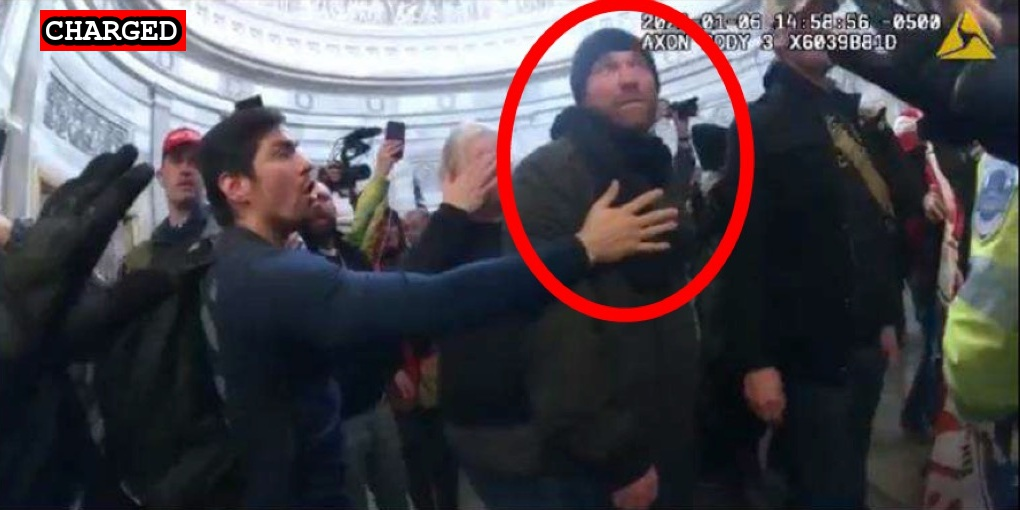
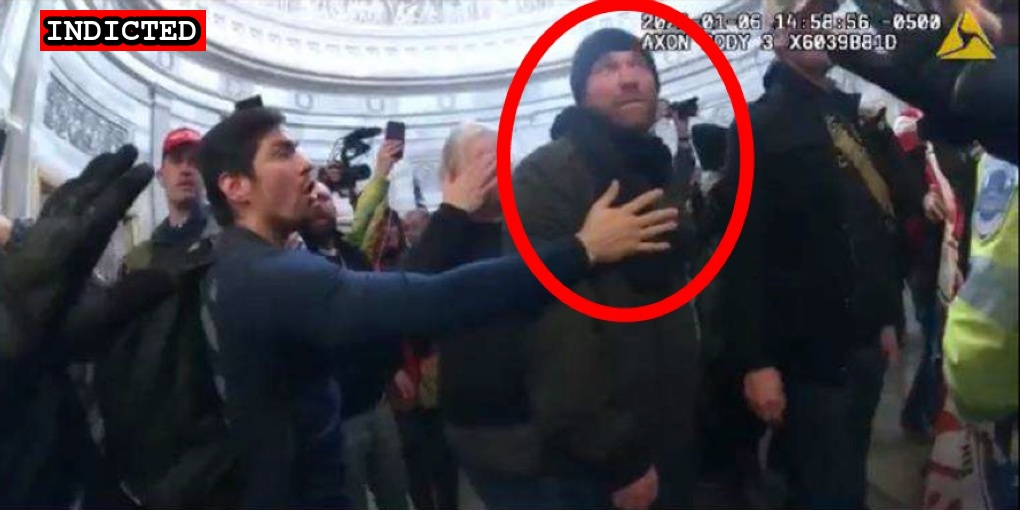
new indictments

Changed region(s): [[0.0304, 0.0, 0.2127, 0.1176]]

diff --git a/docs/_suspects/daniel-gray.md b/docs/_suspects/daniel-gray.md
@@ -3,13 +3,14 @@ name: Daniel Gray
 lastName: Gray
 aka:
 residence: Florida
-status: Charged
+status: Indicted
 date: 2021-05-17
 charged: 2021-05-17
-indicted:
-convicted: 
-sentenced: 
-dismissed: 
+indicted: 2021-07-28
+convicted:
+sentenced:
+dismissed:
+deceased:
 age: 41
 occupation:
 affiliations:
@@ -27,7 +28,9 @@ description: Click for latest case details. Suspects innocent until proven guilt
 author: seditiontrack
 layout: suspect
 published: true
-charges:
+caseNumber:
 ---
+
 - [News Report](https://www.news4jax.com/news/local/2021/05/19/neptune-beach-man-involved-in-altercation-that-led-to-officer-getting-hurt-during-jan-6-capitol-riot-court-documents-say/)
 - [Statement of Facts](https://www.justice.gov/usao-dc/press-release/file/1395251/download)
+- [Indictment](https://www.justice.gov/usao-dc/case-multi-defendant/file/1421286/download)

diff --git a/docs/_suspects/james-horning.md b/docs/_suspects/james-horning.md
@@ -3,13 +3,13 @@ name: James Horning
 lastName: Horning
 aka:
 residence: Ohio
-status: Charged
+status: Indicted
 date: 2021-03-01
 charged: 2021-03-01
-indicted:
-convicted: 
-sentenced: 
-dismissed: 
+indicted: 2021-04-02
+convicted:
+sentenced:
+dismissed:
 deceased:
 age: 44
 occupation:
@@ -30,5 +30,7 @@ layout: suspect
 published: true
 caseNumber: 1:21-cr-275
 ---
+
 - [News Report](https://sciotovalleyguardian.com/2021/01/10/fbi-tipped-to-local-man-who-was-involved-in-capitol-siege/)
 - [Statement of Facts](https://www.justice.gov/usao-dc/case-multi-defendant/file/1378696/download)
+- [Indictment](https://www.justice.gov/usao-dc/case-multi-defendant/file/1422221/download)

diff --git a/docs/_suspects/jeremy-grace.md b/docs/_suspects/jeremy-grace.md
@@ -10,6 +10,7 @@ indicted:
 convicted: 
 sentenced: 
 dismissed: 
+deceased:
 age:
 occupation:
 affiliations:
@@ -27,7 +28,8 @@ description: Click for latest case details. Suspects innocent until proven guilt
 author: seditiontrack
 layout: suspect
 published: true
-charges:
+caseNumber: 1:21-cr-492
 ---
 - [News Report](https://www.oregonlive.com/crime/2021/05/battle-ground-man-caught-on-video-with-dad-repeating-our-house-while-inside-us-capitol-during-jan-6-incursion-feds-say.html)
 - [Statement of Facts](https://www.justice.gov/usao-dc/case-multi-defendant/file/1398131/download)
+- [Information](https://www.justice.gov/usao-dc/case-multi-defendant/file/1422216/download)
